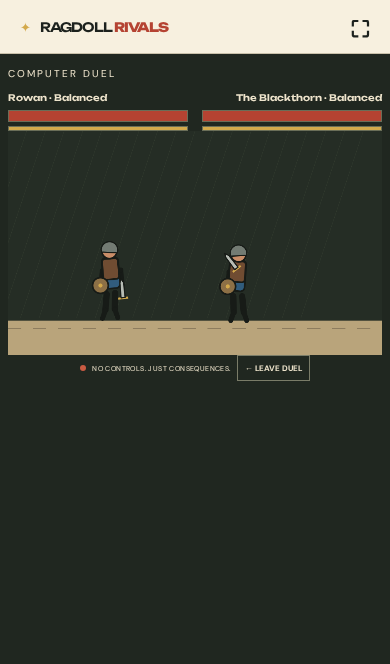
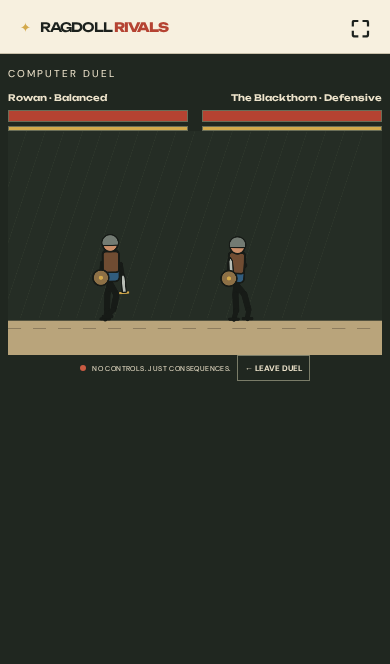
fix: add active balance planted gait and buffered motion

Changed region(s): [[0.5846, 0.1205, 0.9846, 0.1506], [0.5538, 0.3614, 0.6462, 0.4518], [0.2462, 0.3313, 0.3385, 0.4518]]

diff --git a/public/app.js b/public/app.js
@@ -1,4 +1,6 @@
 import {DEFAULT_BUILD,STAT_NAMES,GEAR,STYLES,STYLE_DATA,APPEARANCE,deriveStats} from '/rules.js';
+import {SnapshotBuffer} from '/interpolation.js';
+const buffer=new SnapshotBuffer(100);let fighterMeta=[],renderPose=null;const metrics={frames:0,fps:0,server:null};let frameStart=0;
 const $=s=>document.querySelector(s),$$=s=>[...document.querySelectorAll(s)];
 let build=structuredClone(DEFAULT_BUILD),ws,slot=0,mode='computer',snapshot=null,particles=[],finished=false;
 const styleNames={aggressive:'Aggressive',defensive:'Defensive',counterattacker:'Counter',evasive:'Evasive',balanced:'Balanced',berserker:'Berserker',patient:'Patient'};
@@ -24,7 +26,7 @@ function drawBody(ctx,f,preview=false){
  const p=f.parts,b=f.build,flip=p.torso&&f===snapshot?.fighters?.[1];ctx.save();ctx.strokeStyle='#171b17';ctx.fillStyle='#171b17';ctx.lineJoin='round';
  const point=(name)=>p[name]||{x:0,y:0};
  if(preview){const torso={x:0,y:-10},head={x:0,y:-81};p.torso=torso;p.head=head;for(const [name,x,y] of [['upperArmL',-27,-5],['lowerArmL',-37,40],['upperArmR',27,-5],['lowerArmR',42,35],['thighL',-12,51],['shinL',-16,102],['thighR',12,51],['shinR',16,102]])p[name]={x,y};p.weapon={x:55,y:26,a:-.48};}
- for(const side of ['L','R']){line(ctx,point('thigh'+side),point('shin'+side),15);line(ctx,point('shin'+side),{x:point('shin'+side).x+(side==='L'?-7:7),y:point('shin'+side).y+20},12);line(ctx,point('upperArm'+side),point('lowerArm'+side),11);line(ctx,point('torso'),point('upperArm'+side),12);}
+ for(const side of ['L','R']){line(ctx,point('pelvis').x?point('pelvis'):point('torso'),point('thigh'+side),15);line(ctx,point('thigh'+side),point('shin'+side),15);const foot=p['foot'+side]||{x:point('shin'+side).x,y:point('shin'+side).y+20};line(ctx,point('shin'+side),foot,12);line(ctx,{x:foot.x-10,y:foot.y},{x:foot.x+10,y:foot.y},8);line(ctx,point('upperArm'+side),point('lowerArm'+side),11);line(ctx,point('torso'),point('upperArm'+side),12);}
  ctx.save();ctx.translate(p.torso.x,p.torso.y);ctx.rotate(p.torso.a||0);ctx.fillStyle=b.appearance.cloth;ctx.strokeStyle='#171b17';ctx.lineWidth=4;ctx.beginPath();ctx.roundRect(-20,-37,40,75,10);ctx.fill();ctx.stroke();
  if(b.armour!=='cloth'){ctx.fillStyle=b.armour==='leather'?'#704c32':b.armour==='mail'?'#79817d':'#a7aca3';ctx.beginPath();ctx.roundRect(-19,-34,38,b.armour==='plate'?62:50,7);ctx.fill();ctx.stroke();if(b.armour==='mail'){ctx.strokeStyle='#4a514b';ctx.lineWidth=1;for(let y=-28;y<10;y+=7)for(let x=-13;x<16;x+=7){ctx.beginPath();ctx.arc(x,y,2,0,Math.PI*2);ctx.stroke();}}if(b.armour==='plate'){ctx.fillStyle='#d3a94b';ctx.fillRect(-3,-28,6,45);}}
  ctx.restore();
@@ -39,19 +41,19 @@ function connect(action,extra={}){if(totalUsed()!==15)return error(`You have ${1
 function handle(m){
  if(m.type==='error'){error(m.message);if(!$('#arena').classList.contains('hidden'))show('setup');}
  if(m.type==='roomCreated'){slot=m.slot;$('#copyCode').textContent=m.code;show('waiting');}
- if(m.type==='started'){slot=m.slot;mode=m.mode;finished=false;snapshot=null;$('#modeLabel').textContent=m.mode==='computer'?'COMPUTER DUEL':'PRIVATE DUEL';$('#arenaRoom').textContent=m.code?`ROOM ${m.code}`:'';$('#result').classList.add('hidden');show('arena');}
- if(m.type==='snapshot'){if(snapshot?.tick===m.tick)return;snapshot=m;updateHud();}
+ if(m.type==='started'){slot=m.slot;mode=m.mode;finished=false;snapshot=null;buffer.clear();metrics.frames=0;frameStart=0;fighterMeta=m.fighters||[];$('#hud').innerHTML=fighterMeta.map(f=>`<div class="fighter-hud"><div class="hud-name">${escapeHtml(f.name)} · ${styleNames[f.build.style]}</div><div class="bar"><div class="fill"></div></div><div class="bar stamina"><div class="fill"></div></div></div>`).join('');$('#modeLabel').textContent=m.mode==='computer'?'COMPUTER DUEL':'PRIVATE DUEL';$('#arenaRoom').textContent=m.code?`ROOM ${m.code}`:'';$('#result').classList.add('hidden');show('arena');}
+ if(m.type==='snapshot'){if(snapshot?.tick===m.tick)return;snapshot=m;buffer.push(m,performance.now());if(m.timing)metrics.server=m.timing;updateHud();}
  if(m.type==='finished'){finished=true;$('#resultTitle').textContent=m.winner===-1?'An honourable draw':m.winner===slot?'Victory, eventually.':'Thoroughly walloped.';$('#resultReason').textContent=m.reason==='Knockout'?'The arena has chosen its champion.':m.reason;$('#votes').textContent='';show('result');}
  if(m.type==='rematchStatus')$('#votes').textContent=`${m.votes} of 2 fighters ready`;
 }
-function updateHud(){if(!snapshot)return;$('#hud').innerHTML=snapshot.fighters.map((f,i)=>`<div class="fighter-hud"><div class="hud-name">${escapeHtml(f.name)} · ${styleNames[f.build.style]}</div><div class="bar"><div class="fill" style="width:${100*f.health/f.maxHealth}%"></div></div><div class="bar stamina"><div class="fill" style="width:${100*f.stamina/f.maxStamina}%"></div></div></div>`).join('');}
+function updateHud(){if(!snapshot)return;const hud=$$('.fighter-hud');snapshot.fighters.forEach((f,i)=>{if(!hud[i])return;const bars=hud[i].querySelectorAll('.fill');bars[0].style.width=`${100*f.health/f.maxHealth}%`;bars[1].style.width=`${100*f.stamina/f.maxStamina}%`;});}
 function escapeHtml(s){const d=document.createElement('div');d.textContent=s;return d.innerHTML;}
 function drawFight(){const c=$('#fight'),ctx=c.getContext('2d');ctx.clearRect(0,0,900,540);ctx.fillStyle='#252d25';ctx.fillRect(0,0,900,540);ctx.strokeStyle='#343c30';for(let x=0;x<900;x+=45){ctx.beginPath();ctx.moveTo(x,0);ctx.lineTo(x-150,450);ctx.stroke();}ctx.fillStyle='#b9a47b';ctx.fillRect(0,457,900,83);ctx.fillStyle='#8d7c5e';for(let x=0;x<900;x+=60)ctx.fillRect(x,475+(x%3)*7,32,2);
- if(snapshot){for(const f of snapshot.fighters){ctx.save();if(f.flash)ctx.globalAlpha=.6;drawBody(ctx,f);ctx.restore();}for(const e of snapshot.events||[])if(e.type==='hit'){ctx.fillStyle='#c75b42';for(let i=0;i<7;i++){ctx.beginPath();ctx.arc(e.x+Math.sin(i*2.4)*18,e.y+Math.cos(i*1.8)*15,2+i%2,0,Math.PI*2);ctx.fill();}ctx.font='bold 15px DM Sans';ctx.textAlign='center';ctx.fillText(e.blocked?'BLOCK':`−${e.amount}`,e.x,e.y-25);}}
+ if(renderPose){for(const [i,pose] of renderPose.fighters.entries()){const f={...pose,...fighterMeta[i]};ctx.save();if(f.flash)ctx.globalAlpha=.6;drawBody(ctx,f);ctx.restore();}for(const e of renderPose.events||[])if(e.type==='hit'){ctx.fillStyle='#c75b42';for(let i=0;i<7;i++){ctx.beginPath();ctx.arc(e.x+Math.sin(i*2.4)*18,e.y+Math.cos(i*1.8)*15,2+i%2,0,Math.PI*2);ctx.fill();}ctx.font='bold 15px DM Sans';ctx.textAlign='center';ctx.fillText(e.blocked?'BLOCK':`−${e.amount}`,e.x,e.y-25);}}
 }
-function frame(){drawFight();requestAnimationFrame(frame);}
+function frame(now){if(!$('#arena').classList.contains('hidden')){renderPose=buffer.sample(now);drawFight();metrics.frames++;if(!frameStart)frameStart=now;metrics.fps=metrics.frames*1000/(now-frameStart||1);}requestAnimationFrame(frame);}
 $('#fighterName').oninput=e=>{build.name=e.target.value;};$('#computer').onclick=()=>connect('computer');$('#create').onclick=()=>connect('createRoom');$('#join').onclick=()=>connect('joinRoom',{code:$('#roomCode').value.toUpperCase()});
 $$('.back').forEach(b=>b.onclick=()=>{finished=true;ws?.close();show('setup');});$('#brand').onclick=()=>{finished=true;ws?.close();show('setup');};$('#rematch').onclick=()=>{ws?.send(JSON.stringify({type:'rematch'}));$('#votes').textContent='Waiting for your rival…';};$('#copyCode').onclick=async()=>{try{await navigator.clipboard.writeText($('#copyCode').textContent);}catch{}};
 $('#fullscreen').onclick=()=>document.fullscreenElement?document.exitFullscreen():document.documentElement.requestFullscreen?.();if(!document.documentElement.requestFullscreen)$('#fullscreen').classList.add('hidden');
-setup();frame();if('serviceWorker'in navigator)navigator.serviceWorker.register('/sw.js').then(reg=>reg.addEventListener('updatefound',()=>{const w=reg.installing;w?.addEventListener('statechange',()=>{if(w.state==='installed'&&navigator.serviceWorker.controller)$('#update').classList.remove('hidden');});})).catch(()=>{});$('#update').onclick=()=>location.reload();
-window.__game={get build(){return build},get snapshot(){return snapshot},show};
+setup();requestAnimationFrame(frame);if('serviceWorker'in navigator)navigator.serviceWorker.register('/sw.js').then(reg=>reg.addEventListener('updatefound',()=>{const w=reg.installing;w?.addEventListener('statechange',()=>{if(w.state==='installed'&&navigator.serviceWorker.controller)$('#update').classList.remove('hidden');});})).catch(()=>{});$('#update').onclick=async()=>{const reg=await navigator.serviceWorker.getRegistration();if(reg?.waiting){navigator.serviceWorker.addEventListener('controllerchange',()=>location.reload(),{once:true});reg.waiting.postMessage('ACTIVATE');}else location.reload();};
+window.__game={get build(){return build},get snapshot(){return snapshot},get metrics(){return metrics},get renderPose(){return renderPose},show};

diff --git a/server/combat.js b/server/combat.js
@@ -1,4 +1,5 @@
 import Matter from 'matter-js';
+import {locomotion,applyImpact} from './locomotion.js';
 import { deriveStats, GEAR, STYLE_DATA } from '../shared/rules.js';
 const {Engine,Bodies,Body,Composite,Constraint}=Matter;
 const DT=1/30;
@@ -7,17 +8,20 @@ function fighter(engine,build,index,x){
  const d=deriveStats(build),group=Body.nextGroup(true),parts={},joints=[];
  const opt={collisionFilter:{group},friction:.7,frictionAir:.035,restitution:.08,density:.002};
  parts.torso=Bodies.rectangle(x,330,34,68,{...opt,chamfer:{radius:12},label:`${index}:torso`});
+ parts.pelvis=Bodies.rectangle(x,367,30,20,{...opt,label:`${index}:pelvis`});
  parts.head=Bodies.circle(x,276,19,{...opt,label:`${index}:head`});
  const limb=(name,px,py,w,h)=>parts[name]=Bodies.rectangle(px,py,w,h,{...opt,chamfer:{radius:5},label:`${index}:${name}`});
  for(const side of [-1,1]){const s=side<0?'L':'R';limb('upperArm'+s,x+side*23,330,13,43);limb('lowerArm'+s,x+side*24,372,11,40);limb('thigh'+s,x+side*11,390,16,48);limb('shin'+s,x+side*11,432,13,43);}
  const joint=(a,b,pa,pb,stiffness=.72)=>joints.push(Constraint.create({bodyA:a,bodyB:b,pointA:pa,pointB:pb,length:2,stiffness,damping:.12}));
+ joint(parts.torso,parts.pelvis,{x:0,y:33},{x:0,y:-10},.95);
  joint(parts.torso,parts.head,{x:0,y:-34},{x:0,y:17},.85);
- for(const side of [-1,1]){const s=side<0?'L':'R';joint(parts.torso,parts['upperArm'+s],{x:side*18,y:-24},{x:0,y:-19});joint(parts['upperArm'+s],parts['lowerArm'+s],{x:0,y:19},{x:0,y:-18},.65);joint(parts.torso,parts['thigh'+s],{x:side*10,y:30},{x:0,y:-22},.85);joint(parts['thigh'+s],parts['shin'+s],{x:0,y:22},{x:0,y:-19},.8);}
+ for(const side of [-1,1]){const s=side<0?'L':'R';joint(parts.torso,parts['upperArm'+s],{x:side*18,y:-24},{x:0,y:-19});joint(parts['upperArm'+s],parts['lowerArm'+s],{x:0,y:19},{x:0,y:-18},.65);joint(parts.pelvis,parts['thigh'+s],{x:side*10,y:5},{x:0,y:-22},.98);joint(parts['thigh'+s],parts['shin'+s],{x:0,y:22},{x:0,y:-19},.98);limb('foot'+s,x+side*11,453,26,10);joint(parts['shin'+s],parts['foot'+s],{x:0,y:21},{x:0,y:-3},.98);}
  const reach=d.reach;
  parts.weapon=Bodies.rectangle(x+(index? -1:1)*42,356,10,reach,{...opt,density:.0015,label:`${index}:weapon`});
  joint(parts.lowerArmR,parts.weapon,{x:0,y:17},{x:0,y:-reach*.36},.92);
- Composite.add(engine.world,[...Object.values(parts),...joints]);
- return {build,derived:d,parts,limbs:Object.values(parts),joints,health:d.maxHealth,stamina:d.maxStamina,cooldown:.3,attack:0,attackId:0,hitAttack:-1,guard:false,think:0,metrics:{approach:0,retreat:0,guard:0,attack:0},flash:0};
+ const plants={};for(const side of ['L','R']){plants[side]=Constraint.create({bodyB:parts['foot'+side],pointA:{x:parts['foot'+side].position.x,y:453},length:0,stiffness:0,damping:.2});}
+ Composite.add(engine.world,[...Object.values(parts),...joints,...Object.values(plants)]);
+ return {build,derived:d,parts,plants,stagger:0,recovery:1,gait:{phase:0,planted:false,stance:{L:false,R:false}},limbs:Object.values(parts),joints,health:d.maxHealth,stamina:d.maxStamina,cooldown:.3,attack:0,attackId:0,hitAttack:-1,guard:false,think:0,metrics:{approach:0,retreat:0,guard:0,attack:0},flash:0};
 }
 function decide(m,f,o,index){
  const s=STYLE_DATA[f.build.style],distance=Math.abs(f.parts.torso.position.x-o.parts.torso.position.x),range=78+f.derived.reach*.75*s.range;
@@ -32,7 +36,7 @@ function decide(m,f,o,index){
  if(f.guard)f.metrics.guard++;
  const staminaOK=f.stamina>=f.derived.attackCost*(f.build.style==='berserker'?.45:1);
  let chance=s.chance;if(f.build.style==='counterattacker'&&opening)chance=1;if(f.build.style==='patient'&&!opening)chance*=.45;
- if(distance<100+f.derived.reach&&f.cooldown<=0&&staminaOK&&m.rng()<chance){f.attack=.38;f.attackId++;f.stamina=Math.max(0,f.stamina-f.derived.attackCost);f.cooldown=f.derived.interval;f.metrics.attack++;}
+ if(f.stagger===0&&distance<100+f.derived.reach&&f.cooldown<=0&&staminaOK&&m.rng()<chance){f.attack=.38;f.attackId++;f.stamina=Math.max(0,f.stamina-f.derived.attackCost);f.cooldown=f.derived.interval;f.metrics.attack++;}
 }
 function hit(m,a,b,ai){
  if(a.attack<=0||a.attack>.25||a.hitAttack===a.attackId)return;
@@ -44,14 +48,14 @@ function hit(m,a,b,ai){
   mitigation=bd.armour*(1-(GEAR.weapons[a.build.weapon].armourBypass||0));if(part==='head')mitigation=1-(1-mitigation)*(1-bd.helmet);
   let blocked=false;if(b.guard&&m.rng()<bd.block){blocked=true;mitigation=1-(1-mitigation)*.35;}
   const amount=Math.max(2,d.damage*(.85+m.rng()*.3)*(1-mitigation));b.health=Math.max(0,b.health-amount);b.flash=.15;
-  const direction=a===m.fighters[0]?1:-1;Body.applyForce(b.parts.torso,p.position,{x:direction*(.012+a.build.stats.strength*.0015)*(1-bd.balance*.35),y:-.009});
+  const direction=a===m.fighters[0]?1:-1;applyImpact(b,amount,direction);Body.applyForce(b.parts.torso,p.position,{x:direction*(.012+a.build.stats.strength*.0015)*(1-bd.balance*.35),y:-.009});
   m.events.push({type:'hit',tick:m.tick,a:ai,part,amount:Math.round(amount),blocked,x:tip.x,y:tip.y});return;
  }
 }
 function snapshot(m){return {type:'snapshot',tick:m.tick,time:m.time,status:m.status,winner:m.winner,fighters:m.fighters.map(f=>({name:f.build.name,health:f.health,maxHealth:f.derived.maxHealth,stamina:f.stamina,maxStamina:f.derived.maxStamina,build:f.build,attack:f.attack,guard:f.guard,flash:f.flash,parts:Object.fromEntries(Object.entries(f.parts).map(([k,p])=>[k,{x:p.position.x,y:p.position.y,a:p.angle}]))})),events:m.events.splice(0)};}
 export function createMatch(a,b,{seed=Date.now(),mode='computer'}={}){
  const engine=Engine.create({gravity:{x:0,y:1,scale:.001}});engine.positionIterations=8;engine.velocityIterations=6;
- const ground=Bodies.rectangle(400,478,900,40,{isStatic:true,friction:.9,label:'ground'});Composite.add(engine.world,ground);
+ const ground=Bodies.rectangle(400,478,900,40,{isStatic:true,friction:.9,label:'ground'});Composite.add(engine.world,[ground,Bodies.rectangle(-25,250,50,600,{isStatic:true}),Bodies.rectangle(925,250,50,600,{isStatic:true})]);
  const m={engine,fighters:[fighter(engine,a,0,245),fighter(engine,b,1,555)],time:0,tick:0,status:'fighting',winner:null,events:[{type:'start'}],rng:random(seed),mode,seed};
  return m;
 }
@@ -60,8 +64,8 @@ export function stepMatch(m){
  m.fighters.forEach((f,i)=>{const o=m.fighters[1-i];f.cooldown=Math.max(0,f.cooldown-DT);f.attack=Math.max(0,f.attack-DT);f.flash=Math.max(0,f.flash-DT);f.think-=DT;if(f.think<=0){f.think=.15;decide(m,f,o,i);}if(f.attack<=0)f.stamina=Math.min(f.derived.maxStamina,f.stamina+f.derived.regen*DT);
  const torso=f.parts.torso,dir=i===0?1:-1,distance=Math.abs(torso.position.x-o.parts.torso.position.x),range=100+f.derived.reach*STYLE_DATA[f.build.style].range;
  let movement=distance>range?dir:0;if(f.build.style==='evasive'&&Math.floor(m.time*1.3+i)%4===0)movement=-dir;if(f.build.style==='berserker')movement=dir;
- const target=movement*f.derived.moveSpeed*.019;Body.setVelocity(torso,{x:torso.velocity.x*.82+target*.18,y:torso.velocity.y});torso.torque+=(-torso.angle*f.derived.balance-torso.angularVelocity*.6)*.045;
- for(const side of ['L','R']){const arm=f.parts['upperArm'+side];if(side==='R'){const target=f.attack>0?(i===0?-1.7:1.7):(i===0?-.45:.45);arm.torque+=(target-arm.angle)*.13-arm.angularVelocity*.035;}else arm.torque+=(-arm.angle*.03-arm.angularVelocity*.015);}
+ locomotion(f,movement,DT);
+ if(f.stagger===0)for(const side of ['L','R']){const arm=f.parts['upperArm'+side];if(side==='R'){const target=f.attack>0?(i===0?-1.7:1.7):(i===0?-.45:.45);arm.torque+=(target-arm.angle)*.13-arm.angularVelocity*.035;}else arm.torque+=(-arm.angle*.03-arm.angularVelocity*.015);}
  });
  Engine.update(m.engine,1000/60);Engine.update(m.engine,1000/60);hit(m,m.fighters[0],m.fighters[1],0);hit(m,m.fighters[1],m.fighters[0],1);
  if(m.fighters.some(f=>f.health<=0)||m.time>=75){m.status='finished';const [a,b]=m.fighters;if(a.health===b.health)m.winner=-1;else m.winner=a.health>b.health?0:1;m.events.push({type:'finished',winner:m.winner});}

diff --git a/server/rooms.js b/server/rooms.js
@@ -1,5 +1,6 @@
 import { randomInt } from 'node:crypto';
 import { createMatch, stepMatch } from './combat.js';
+import {startMatchLoop} from './network-motion.js';
 import { DEFAULT_BUILD, normaliseBuild, validateBuild } from '../shared/rules.js';
 const alphabet='ABCDEFGHJKLMNPQRSTUVWXYZ23456789';
 const send=(ws,msg)=>{if(ws?.readyState===1)ws.send(JSON.stringify(msg));};
@@ -11,7 +12,16 @@ export class RoomManager{
  create(ws,b){const build=this.valid(ws,b);if(!build)return;const code=this.code(),room={code,mode:'pvp',players:[{ws,build},null],votes:new Set(),match:null,timer:null,disconnect:null};this.rooms.set(code,room);ws.room=room;ws.slot=0;send(ws,{type:'roomCreated',code,slot:0});}
  join(ws,code,b){if(typeof code!=='string'||!/^[A-HJ-NP-Z2-9]{6}$/.test(code))return this.error(ws,'Room codes contain six letters or digits.');const room=this.rooms.get(code);if(!room)return this.error(ws,'Room not found. Check the code and try again.');if(room.players[1])return this.error(ws,'That room is already full.');const build=this.valid(ws,b);if(!build)return;room.players[1]={ws,build};ws.room=room;ws.slot=1;send(ws,{type:'joined',code,slot:1});this.start(room,false);}
  computer(ws,b){const build=this.valid(ws,b);if(!build)return;const styles=['aggressive','defensive','counterattacker','evasive','balanced','berserker','patient'];const opponent={...structuredClone(DEFAULT_BUILD),name:'The Blackthorn',style:styles[randomInt(styles.length)]};const room={code:null,mode:'computer',players:[{ws,build},null],votes:new Set(),match:null,timer:null,disconnect:null};ws.room=room;ws.slot=0;room.opponent=opponent;this.start(room,false);}
- start(room,rematch){clearTimeout(room.disconnect);room.disconnect=null;room.votes.clear();const [a,b]=room.players;room.match=createMatch(a.build,room.mode==='computer'?room.opponent:b.build,{seed:randomInt(2**31),mode:room.mode});for(const [i,p] of room.players.entries())if(p&&p.ws.readyState===1)send(p.ws,{type:'started',code:room.code,slot:i,rematch,mode:room.mode});clearInterval(room.timer);room.timer=setInterval(()=>{const m=room.match;if(!m||m.status!=='fighting')return;const snap=stepMatch(m);if(m.tick%2===0)this.broadcast(room,snap);if(m.status==='finished'){clearInterval(room.timer);if(room.pendingRematch?.size){const votes=room.pendingRematch;room.pendingRematch=null;if(room.mode==='computer'||votes.size===2){this.broadcast(room,{type:'finished',winner:m.winner,reason:m.time>=75?'Time limit':'Knockout'});this.start(room,true);return;}}room.timer=null;this.broadcast(room,{type:'finished',winner:m.winner,reason:m.time>=75?'Time limit':'Knockout'});}},1000/30);room.timer.unref();}
+ start(room,rematch){
+  clearTimeout(room.disconnect);room.disconnect=null;room.votes.clear();const [a,b]=room.players;
+  room.match=createMatch(a.build,room.mode==='computer'?room.opponent:b.build,{seed:randomInt(2**31),mode:room.mode});
+  for(const [i,p] of room.players.entries())if(p&&p.ws.readyState===1)send(p.ws,{type:'started',code:room.code,slot:i,rematch,mode:room.mode,fighters:room.match.fighters.map(f=>({build:f.build,name:f.build.name})),snapshotHz:30});
+  clearInterval(room.timer);
+  const loop=startMatchLoop(room.match,stepMatch,snap=>this.broadcast(room,snap),()=>{
+   room.timer=null;const m=room.match;this.broadcast(room,{type:'finished',winner:m.winner,reason:m.time>=75?'Time limit':'Knockout'});
+   if(room.pendingRematch?.size){const votes=room.pendingRematch;room.pendingRematch=null;if(room.mode==='computer'||votes.size===2)this.start(room,true);}
+  });room.timer=loop.timer;room.timing=loop.metrics;
+ }
  broadcast(room,msg){for(const p of room.players)if(p)send(p.ws,msg);}
  rematch(ws){const r=ws.room;if(!r)return this.error(ws,'You are not in a room.');if(r.match?.status==='fighting'){r.pendingRematch??=new Set();r.pendingRematch.add(ws.slot);this.broadcast(r,{type:'rematchStatus',votes:r.pendingRematch.size});return;}if(!r.match)return this.error(ws,'The duel has not started.');r.votes.add(ws.slot);if(r.mode==='computer'||r.votes.size===2)return this.start(r,true);this.broadcast(r,{type:'rematchStatus',votes:r.votes.size});}
  close(ws){const r=ws.room;if(!r)return;const p=r.players[ws.slot];if(!p||p.ws!==ws)return;r.players[ws.slot]=null;ws.room=null;if(r.mode==='computer'||r.players.every(x=>!x)){clearInterval(r.timer);clearTimeout(r.disconnect);if(r.code)this.rooms.delete(r.code);return;}if(!r.match)return this.rooms.delete(r.code);if(r.match.status==='fighting'){r.disconnect=setTimeout(()=>{clearInterval(r.timer);r.timer=null;r.match.status='finished';r.match.winner=ws.slot===0?1:0;this.broadcast(r,{type:'finished',winner:r.match.winner,reason:'Opponent disconnected'});},10000);r.disconnect.unref();}}

diff --git a/tests/rooms.test.js b/tests/rooms.test.js
@@ -11,7 +11,7 @@ async function until(ws,type,timeout=5000){const end=Date.now()+timeout;while(Da
 const send=(ws,type,extra={})=>ws.send(JSON.stringify({type,build:DEFAULT_BUILD,...extra}));
 test.before(async()=>{server=createServer();await new Promise(r=>server.listen(0,'127.0.0.1',r));port=server.address().port;});
 test.after(async()=>{await new Promise(r=>server.close(r));});
-test('health returns version JSON',async()=>{const r=await fetch(`http://127.0.0.1:${port}/health`);assert.equal(r.status,200);assert.deepEqual(await r.json(),{ok:true,version:'1.0.0',commit:'local'});});
+test('health returns version JSON',async()=>{const r=await fetch(`http://127.0.0.1:${port}/health`);assert.equal(r.status,200);assert.deepEqual(await r.json(),{ok:true,version:'1.1.0',commit:'local'});});
 test('invalid room code returns a useful error',async()=>{const ws=await client();send(ws,'joinRoom',{code:'NOPE!!'});assert.match((await until(ws,'error')).message,/code/i);ws.close();});
 test('two real clients create, join and receive identical snapshots',async()=>{
  const a=await client(),b=await client();send(a,'createRoom');const made=await until(a,'roomCreated');assert.match(made.code,/^[A-HJ-NP-Z2-9]{6}$/);send(b,'joinRoom',{code:made.code});await until(a,'started');await until(b,'started');const [sa,sb]=await Promise.all([until(a,'snapshot'),until(b,'snapshot')]);assert.equal(sa.tick,sb.tick);assert.deepEqual(sa.fighters.map(f=>f.parts),sb.fighters.map(f=>f.parts));a.terminate();b.terminate();
@@ -22,3 +22,5 @@ test('unknown code and full room do not kill other client',async()=>{const ws=aw
 test('computer mode starts immediately and streams',async()=>{const ws=await client();send(ws,'computer');await until(ws,'started');const s=await until(ws,'snapshot');assert.equal(s.fighters.length,2);ws.close();});
 test('disconnected battler forfeits after grace period',async()=>{const a=await client(),b=await client();send(a,'createRoom');const {code}=await until(a,'roomCreated');send(b,'joinRoom',{code});await until(a,'started');await until(b,'started');b.close();const f=await until(a,'finished',12000);assert.equal(f.winner,0);assert.match(f.reason,/disconnect/i);a.close();});
 test('server rejects invalid combat build',async()=>{const ws=await client();send(ws,'computer',{build:{...DEFAULT_BUILD,weapon:'claymore'}});assert.match((await until(ws,'error')).message,/claymore/i);ws.close();});
+
+test('live scheduler sends 30 Hz snapshots with bounded step time and no dropped ticks',async()=>{const ws=await client();try{send(ws,'computer');await until(ws,'started');await until(ws,'snapshot');const start=performance.now();const frames=[];while(performance.now()-start<2100){frames.push(await until(ws,'snapshot'));}const elapsed=(performance.now()-start)/1000;assert.ok(frames.length/elapsed>25,`${frames.length/elapsed} snapshots/s`);const timed=frames.find(x=>x.timing);assert.ok(timed);assert.equal(timed.timing.droppedMs,0);assert.ok(timed.timing.meanStepMs<20);assert.equal(frames[0].fighters[0].build,undefined);}finally{ws.terminate();}});

diff --git a/server/locomotion.js b/server/locomotion.js
@@ -1,0 +1,41 @@
+import Matter from 'matter-js';
+const {Body}=Matter;
+export const wrap=a=>Math.atan2(Math.sin(a),Math.cos(a));
+const clamp=(x,a,b)=>Math.max(a,Math.min(b,x));
+function muscle(body,target,gain,power){const torque=body.inertia*power*(wrap(target-body.angle)*gain-body.angularVelocity*.0018);body.torque=clamp(body.torque+torque,-body.inertia*.0012,body.inertia*.0012);}
+function servo(body,x,y,k,power){Body.applyForce(body,body.position,{x:clamp((x-body.position.x)*k-body.velocity.x*.00035,-.1,.1)*power,y:clamp((y-body.position.y)*k-body.velocity.y*.0005,-.16,.16)*power});}
+export function applyImpact(f,damage,direction){
+ if(damage<18)return;
+ const b=f.build.stats.balance;
+ f.stagger=Math.max(f.stagger||0,1.45-b*.065);
+ f.recovery=0;
+ for(const side of ['L','R']){f.plants[side].stiffness=0;f.gait.stance[side]=false;}
+ Body.setAngularVelocity(f.parts.torso,f.parts.torso.angularVelocity+direction*.19/(1+b*.025));
+ Body.applyForce(f.parts.torso,f.parts.torso.position,{x:direction*.032,y:-.018});
+}
+export function locomotion(f,movement,dt){
+ f.stagger=Math.max(0,f.stagger-dt);
+ const b=f.build.stats.balance,p=f.parts;
+ if(f.stagger>0){f.gait.planted=false;for(const side of ['L','R']){f.plants[side].stiffness=0;f.gait.stance[side]=false;}return;}
+ f.recovery=Math.min(1,f.recovery+dt*(.8+b*.18));
+ const power=f.recovery*(.8+b*.045),vx=movement*f.derived.moveSpeed*.019;
+ f.gait.phase+=(movement===0?.6:1.8)*dt;f.gait.planted=false;
+ // Finite balance muscles support body height, but remain off during stagger.
+ muscle(p.torso,0,.0015,power);muscle(p.head,0,.0011,power);muscle(p.pelvis,0,.0015,power);
+ servo(p.torso,p.torso.position.x+(vx-p.torso.velocity.x)*16,323,.0011,power);
+ servo(p.pelvis,p.pelvis.position.x,367,.0007,power);
+ for(const [side,offset] of [['L',0],['R',.5]]){
+  const phase=(f.gait.phase+offset)%1,stance=phase<.58,foot=p['foot'+side],anchor=f.plants[side];
+  if(stance){if(!f.gait.stance[side]){anchor.pointA={x:foot.position.x,y:453};}anchor.stiffness=foot.position.y>442?.8:0;f.gait.planted ||=anchor.stiffness>0;servo(foot,anchor.pointA.x,453,.0008,power);}
+  else{anchor.stiffness=0;const swing=(phase-.58)/.42;const x=p.pelvis.position.x+(side==='L'?-10:10)+movement*(-18+54*swing);const y=453-34*Math.sin(Math.PI*swing);servo(foot,x,y,.004,power);}
+  f.gait.stance[side]=stance;
+  const thigh=p['thigh'+side],shin=p['shin'+side];
+  const dx=foot.position.x-p.pelvis.position.x,dy=Math.max(20,foot.position.y-p.pelvis.position.y);
+  const bend=Math.acos(clamp(Math.hypot(dx,dy)/88,.2,1));const centre=-Math.atan2(dx,dy);
+  muscle(thigh,centre-bend,.0018,power);muscle(shin,centre+bend,.0018,power);muscle(foot,0,.0015,power);
+  // Soft physiological limits: no hyperextended knees or backwards hips.
+  const hip=wrap(thigh.angle-p.pelvis.angle),knee=wrap(shin.angle-thigh.angle);
+  if(Math.abs(hip)>1.15)muscle(thigh,p.pelvis.angle+clamp(hip,-1.15,1.15),.003,power);
+  if(knee<-.15||knee>1.9)muscle(shin,thigh.angle+clamp(knee,-.15,1.9),.003,power);
+ }
+}

diff --git a/tests/locomotion.test.js b/tests/locomotion.test.js
@@ -1,0 +1,10 @@
+import test from 'node:test';import assert from 'node:assert/strict';import Matter from 'matter-js';
+import {createMatch,stepMatch} from '../server/combat.js';import {DEFAULT_BUILD} from '../shared/rules.js';
+const build=(balance=4)=>({...structuredClone(DEFAULT_BUILD),stats:{strength:4,vitality:4,speed:4,stamina:8-balance,balance}});
+function isolated(balance=4){const m=createMatch(build(balance),structuredClone(DEFAULT_BUILD),{seed:8});for(const b of m.fighters[1].limbs)Matter.Body.translate(b,{x:2500,y:0});return m;}
+function upright(f){return Math.abs(Math.atan2(Math.sin(f.parts.torso.angle),Math.cos(f.parts.torso.angle)))<.55&&f.parts.torso.position.y<365;}
+test('unprovoked walking stays upright for at least 85% of ten seconds',()=>{const m=isolated();let standing=0;for(let i=0;i<300;i++){stepMatch(m);if(upright(m.fighters[0]))standing++;}assert.ok(standing>255,`${standing}/300 upright`);assert.ok(m.fighters[0].parts.torso.position.x>260);});
+test('real impact disables muscles, knocks down, then recovers within six seconds',async()=>{const {applyImpact}=await import('../server/locomotion.js');const m=isolated(),f=m.fighters[0];for(let i=0;i<60;i++)stepMatch(m);applyImpact(f,35,1);assert.ok(f.stagger>0);let down=false,recovered=-1;for(let i=0;i<180;i++){stepMatch(m);if(!upright(f))down=true;if(down&&upright(f)&&f.stagger===0){recovered=i/30;break;}}assert.ok(down,'heavy hit must topple');assert.ok(recovered>0&&recovered<6,`recovery ${recovered}`);});
+test('higher balance measurably shortens recovery after same impact',async()=>{const {applyImpact}=await import('../server/locomotion.js');const times=[];for(const bal of [1,7]){const m=isolated(bal),f=m.fighters[0];for(let i=0;i<60;i++)stepMatch(m);applyImpact(f,35,1);let down=false,t=9;for(let i=0;i<240;i++){stepMatch(m);if(!upright(f))down=true;if(down&&upright(f)&&f.stagger===0){t=i/30;break;}}times.push(t);}assert.ok(times[1]+.2<times[0],`low/high: ${times}`);});
+test('feet alternate planted stance and lifted swing, knees stay within limits',()=>{const m=isolated(),f=m.fighters[0];let plants=0,lifts=0;for(let i=0;i<180;i++){stepMatch(m);if(f.gait?.planted)plants++;if(Math.min(f.parts.footL?.position.y??500,f.parts.footR?.position.y??500)<444)lifts++;}assert.ok(plants>90);assert.ok(lifts>20);});
+test('combat collisions remain finite and inside vertical arena bounds across seeds',()=>{for(let seed=1;seed<=12;seed++){const m=createMatch(DEFAULT_BUILD,{...DEFAULT_BUILD,style:'berserker'},{seed});for(let i=0;i<900&&m.status==='fighting';i++){stepMatch(m);for(const f of m.fighters)for(const body of f.limbs)assert.ok(Number.isFinite(body.position.y)&&body.position.y>-200&&body.position.y<550,`seed ${seed}, tick ${i}, ${body.label}: ${body.position.y}`);}}});

diff --git a/tests/measure-live.js b/tests/measure-live.js
@@ -1,0 +1,7 @@
+import {chromium} from 'playwright';import fs from 'node:fs';
+const url=process.env.LIVE_URL||'https://ragdoll-rivals.onrender.com',out=process.env.OUT||'screenshots/live-1.1/before.json';
+const browser=await chromium.launch();const page=await browser.newPage({viewport:{width:390,height:664},isMobile:true,hasTouch:true});
+await page.addInitScript(()=>{window.measure={frames:[],poses:[],packets:[],bytes:0};const Native=WebSocket;window.WebSocket=class extends Native{constructor(...a){super(...a);this.addEventListener('message',e=>{const m=JSON.parse(e.data);if(m.type==='snapshot'){window.measure.packets.push({at:performance.now(),tick:m.tick,time:m.time,torso:m.fighters?.[0]?.parts?.torso});window.measure.bytes+=e.data.length;}});}};function frame(t){window.measure.frames.push(t);const pose=window.__game?.renderPose||window.__game?.snapshot;if(pose){const torso=pose.fighters[0].parts.torso;window.measure.poses.push([t,torso.x,torso.y,torso.a]);}requestAnimationFrame(frame);}requestAnimationFrame(frame);});
+await page.goto(url,{waitUntil:'networkidle'});await page.locator('#computer').scrollIntoViewIfNeeded();await page.locator('#computer').click();await page.waitForFunction(()=>window.__game.snapshot?.tick>2);
+await page.waitForTimeout(8000);const data=await page.evaluate(()=>{const {frames,poses,packets,bytes}=window.measure;const unique=poses.filter((p,i)=>i>0&&p.slice(1).some((v,j)=>v!==poses[i-1][j+1]));const f=frames.filter(t=>t>=packets[0].at),elapsed=(packets.at(-1).at-packets[0].at)/1000;return {poseUpdatesHz:unique.length/((poses.at(-1)[0]-poses[0][0])/1000),fps:(f.length-1)/((f.at(-1)-f[0])/1000),snapshotHz:(packets.length-1)/elapsed,simulationHz:(packets.at(-1).tick-packets[0].tick)/elapsed,meanBytes:bytes/packets.length,torso:packets.at(-1).torso,telemetry:window.__game.metrics||null};});
+fs.writeFileSync(out,JSON.stringify(data,null,2));console.log(data);await browser.close();

diff --git a/server/network-motion.js b/server/network-motion.js
@@ -1,0 +1,10 @@
+export const SIMULATION_HZ=30,SNAPSHOT_HZ=30,STEP_MS=1000/SIMULATION_HZ;
+export class FixedStepClock{
+ constructor(now){this.previous=now;this.accumulator=0;this.droppedMs=0;}
+ advance(now){this.accumulator+=Math.max(0,now-this.previous);this.previous=now;const steps=Math.min(5,Math.floor((this.accumulator+.00001)/STEP_MS));this.accumulator-=steps*STEP_MS;if(this.accumulator>=STEP_MS){const dropped=Math.floor(this.accumulator/STEP_MS)*STEP_MS;this.droppedMs+=dropped;this.accumulator-=dropped;}return steps;}
+}
+export function encodeSnapshot(s){return {...s,time:+s.time.toFixed(4),fighters:s.fighters.map(f=>({health:+f.health.toFixed(1),maxHealth:f.maxHealth,stamina:+f.stamina.toFixed(1),maxStamina:f.maxStamina,attack:+f.attack.toFixed(2),guard:f.guard,flash:f.flash>0?1:0,parts:Object.fromEntries(Object.entries(f.parts).map(([key,p])=>[key,{x:+p.x.toFixed(1),y:+p.y.toFixed(1),a:+p.a.toFixed(3)}]))}))};}
+export function startMatchLoop(match,step,onFrame,onFinish){
+ const clock=new FixedStepClock(performance.now()),metrics={ticks:0,meanStepMs:0,maxStepMs:0,droppedMs:0,elapsedMs:0,simulationHz:0};let total=0;const began=performance.now();
+ const timer=setInterval(()=>{const now=performance.now(),steps=clock.advance(now);for(let i=0;i<steps&&match.status==='fighting';i++){const start=performance.now();const frame=step(match);const cost=performance.now()-start;total+=cost;metrics.ticks++;metrics.meanStepMs=total/metrics.ticks;metrics.maxStepMs=Math.max(metrics.maxStepMs,cost);metrics.droppedMs=clock.droppedMs;metrics.elapsedMs=now-began;metrics.simulationHz=metrics.ticks/(metrics.elapsedMs/1000);const compact=encodeSnapshot(frame);if(match.tick%30===0)compact.timing={...metrics};onFrame(compact);if(match.status==='finished'){clearInterval(timer);onFinish();break;}}},8);timer.unref();return {timer,metrics};
+}

diff --git a/tests/network-motion.test.js b/tests/network-motion.test.js
@@ -1,0 +1,8 @@
+import test from 'node:test';import assert from 'node:assert/strict';
+import {SnapshotBuffer} from '../public/interpolation.js';
+import {FixedStepClock,SNAPSHOT_HZ,encodeSnapshot} from '../server/network-motion.js';
+const pose=(time,x,a=0)=>({type:'snapshot',tick:time*30,time,fighters:[{health:94,maxHealth:94,stamina:90,maxStamina:90,attack:0,parts:{torso:{x,y:300,a}}}]});
+test('snapshot interpolation renders 100 ms behind and lerps the shortest angular path',()=>{const b=new SnapshotBuffer(100);b.push(pose(0,0,3.1),1000);b.push(pose(.1,10,-3.1),1100);const p=b.sample(1150);assert.ok(Math.abs(p.fighters[0].parts.torso.x-5)<.01);assert.ok(Math.abs(p.fighters[0].parts.torso.a)>3);});
+test('interpolation holds newest pose on underflow, bounds buffer and rejects old packets',()=>{const b=new SnapshotBuffer(100);for(let i=0;i<50;i++)b.push(pose(i/30,i),i*1000/30);assert.ok(b.frames.length<=12);assert.equal(b.push(pose(0,0),2000),false);assert.equal(b.sample(100000).fighters[0].parts.torso.x,49);});
+test('fixed step clock catches up delayed loop without slowing simulation or runaway steps',()=>{const clock=new FixedStepClock(0);assert.equal(clock.advance(100),3);assert.equal(clock.advance(105),0);assert.equal(clock.advance(200),3);assert.equal(SNAPSHOT_HZ,30);assert.ok(clock.advance(5000)<=5);assert.ok(clock.droppedMs>0);});
+test('compact snapshots round coordinates, omit static build data and preserve pose',()=>{const s=pose(1,20.123456);s.fighters[0].build={name:'large immutable equipment data'};const compact=encodeSnapshot(s);assert.equal(compact.fighters[0].build,undefined);assert.equal(compact.fighters[0].parts.torso.x,20.1);assert.ok(JSON.stringify(compact).length<JSON.stringify(s).length);});

diff --git a/public/sw.js b/public/sw.js
@@ -1,1 +1,2 @@
-const CACHE='ragdoll-rivals-v1';self.addEventListener('install',e=>e.waitUntil(caches.open(CACHE).then(c=>c.addAll(['/','/style.css','/app.js','/rules.js','/manifest.webmanifest','/icon-192.png']))));self.addEventListener('activate',e=>e.waitUntil(caches.keys().then(keys=>Promise.all(keys.filter(k=>k!==CACHE).map(k=>caches.delete(k))))));self.addEventListener('fetch',e=>{if(e.request.method!=='GET'||e.request.url.includes('/health'))return;e.respondWith(fetch(e.request).then(r=>{const copy=r.clone();caches.open(CACHE).then(c=>c.put(e.request,copy));return r;}).catch(()=>caches.match(e.request)));});
+self.addEventListener('message',e=>{if(e.data==='ACTIVATE')self.skipWaiting();});
+const CACHE='ragdoll-rivals-v1.1';self.addEventListener('install',e=>e.waitUntil(caches.open(CACHE).then(c=>c.addAll(['/','/style.css','/app.js','/rules.js','/interpolation.js','/manifest.webmanifest','/icon-192.png']))));self.addEventListener('activate',e=>e.waitUntil(caches.keys().then(keys=>Promise.all(keys.filter(k=>k!==CACHE).map(k=>caches.delete(k))))));self.addEventListener('fetch',e=>{if(e.request.method!=='GET'||e.request.url.includes('/health'))return;e.respondWith(fetch(e.request).then(r=>{const copy=r.clone();caches.open(CACHE).then(c=>c.put(e.request,copy));return r;}).catch(()=>caches.match(e.request)));});

diff --git a/public/interpolation.js b/public/interpolation.js
@@ -1,0 +1,6 @@
+export class SnapshotBuffer{
+ constructor(delay=100){this.delay=delay;this.frames=[];this.offset=null;}
+ clear(){this.frames=[];this.offset=null;}
+ push(snapshot,now){const last=this.frames.at(-1);if(last&&snapshot.time<=last.time)return false;const offset=now-snapshot.time*1000;this.offset=this.offset===null?offset:Math.min(this.offset+.1,offset);this.frames.push(snapshot);if(this.frames.length>12)this.frames.shift();return true;}
+ sample(now){if(!this.frames.length)return null;const time=(now-this.offset-this.delay)/1000;let a=this.frames[0],b=a;for(const frame of this.frames){b=frame;if(frame.time>=time)break;a=frame;}if(a===b||time>=b.time)return b;const t=Math.max(0,Math.min(1,(time-a.time)/(b.time-a.time)));return {...a,fighters:a.fighters.map((f,i)=>({...f,parts:Object.fromEntries(Object.entries(f.parts).map(([key,p])=>{const q=b.fighters[i].parts[key]||p;const da=Math.atan2(Math.sin(q.a-p.a),Math.cos(q.a-p.a));return [key,{x:p.x+(q.x-p.x)*t,y:p.y+(q.y-p.y)*t,a:p.a+da*t}];}))}))};}
+}

diff --git a/tests/capture-motion.js b/tests/capture-motion.js
@@ -1,0 +1,3 @@
+import {chromium} from 'playwright';import fs from 'node:fs';
+const url=process.env.LIVE_URL||'http://localhost:3001',dir=process.env.SHOTS||'screenshots/local-1.1';fs.mkdirSync(dir,{recursive:true});const browser=await chromium.launch();
+for(const [width,height]of [[390,664],[1280,800]]){const p=await browser.newPage({viewport:{width,height},isMobile:width<500});await p.goto(url,{waitUntil:'networkidle'});await p.locator('#computer').scrollIntoViewIfNeeded();await p.locator('#computer').click();await p.waitForFunction(()=>window.__game.snapshot?.tick>2);for(const tick of [30,60,90,120]){await p.waitForFunction(t=>window.__game.snapshot?.tick>=t,tick);await p.screenshot({path:`${dir}/fight-${width}-tick-${tick}.png`});console.log(width,tick,await p.evaluate(()=>window.__game.snapshot.fighters.map(f=>f.parts.torso)));}await p.close();}await browser.close();
